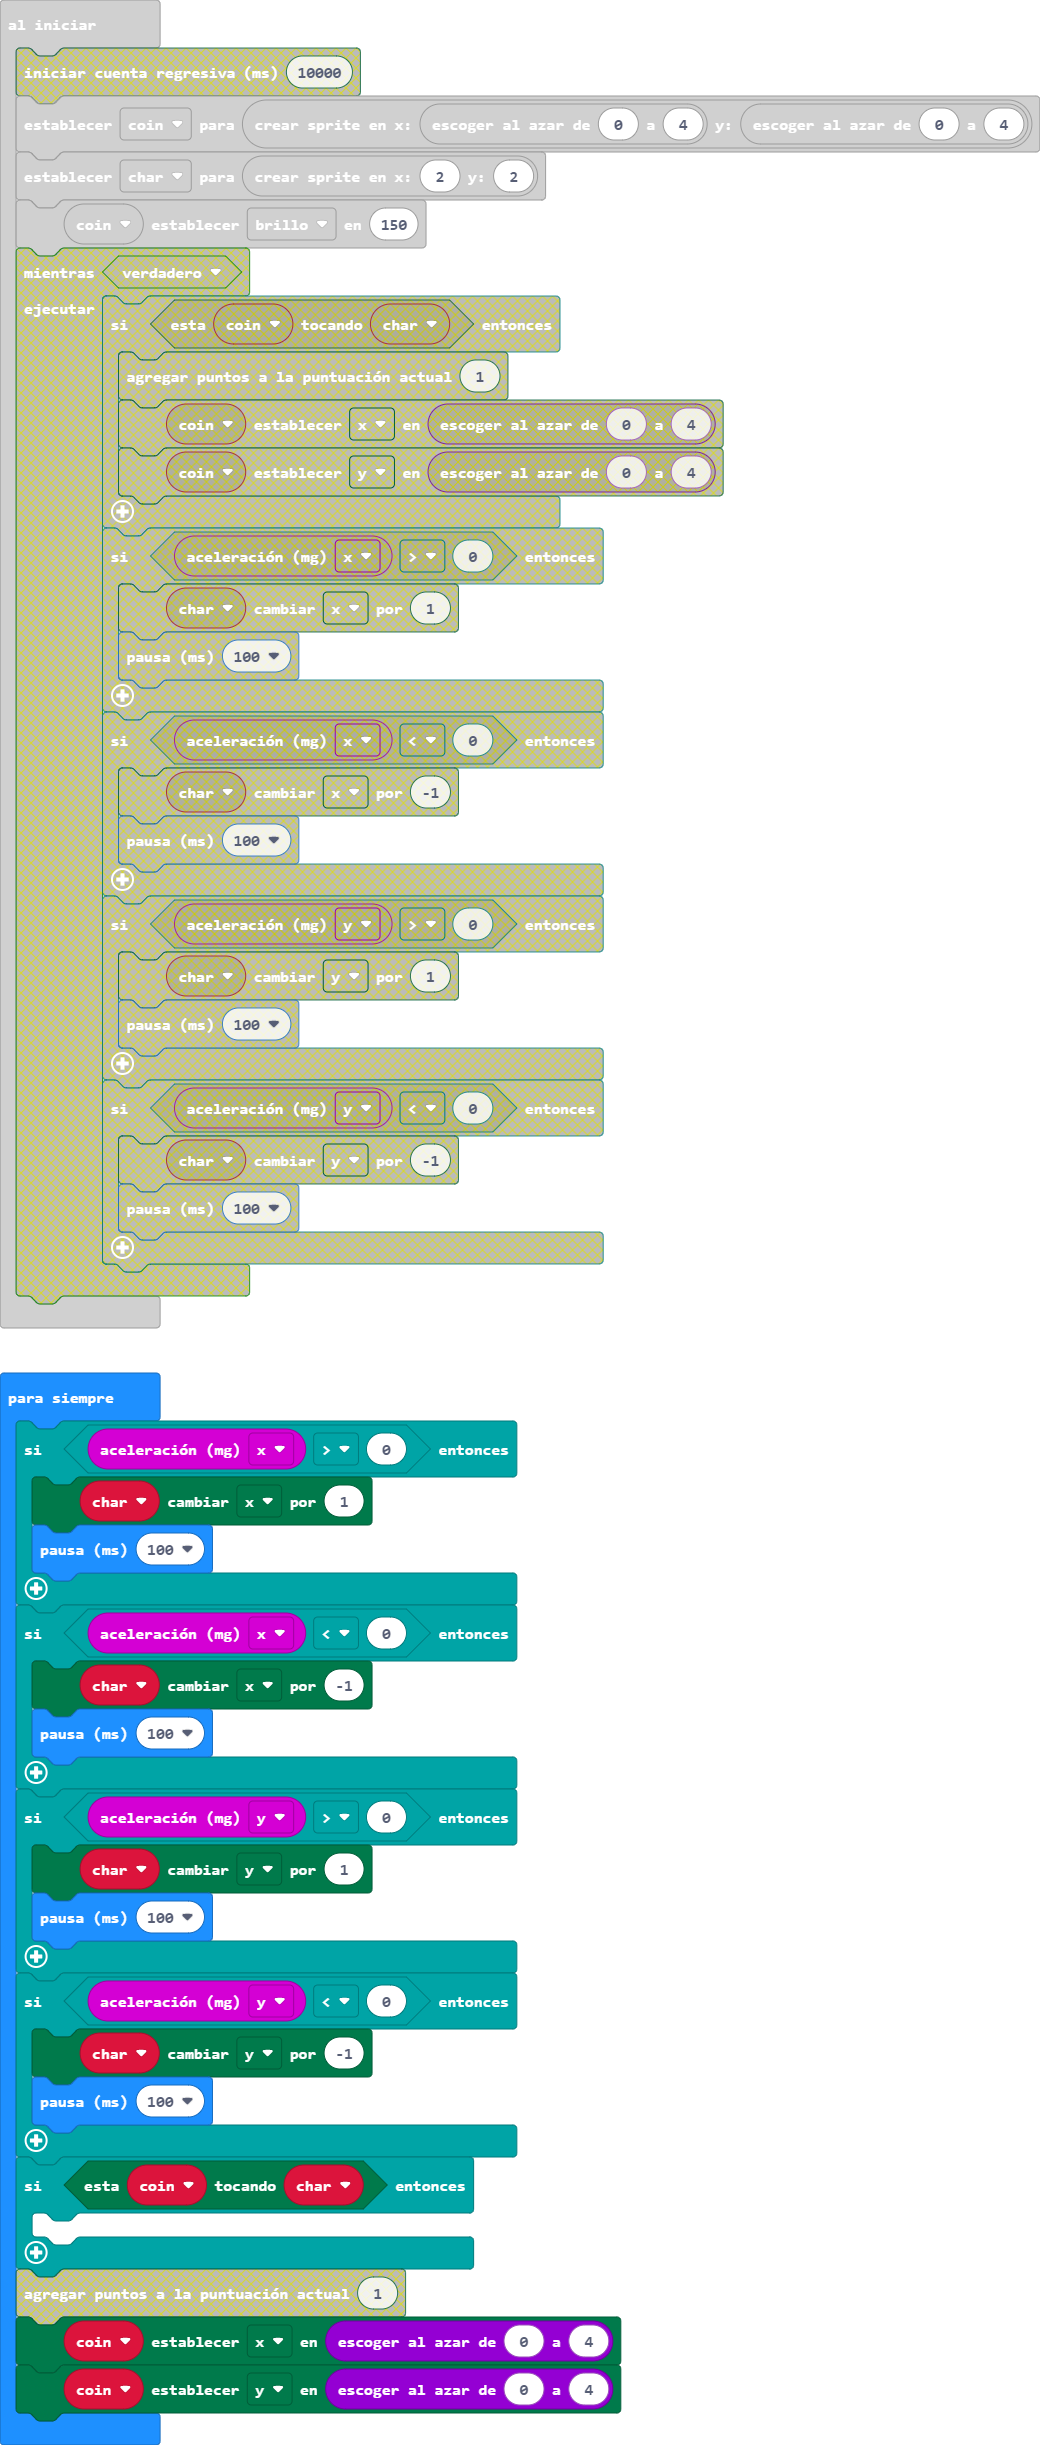
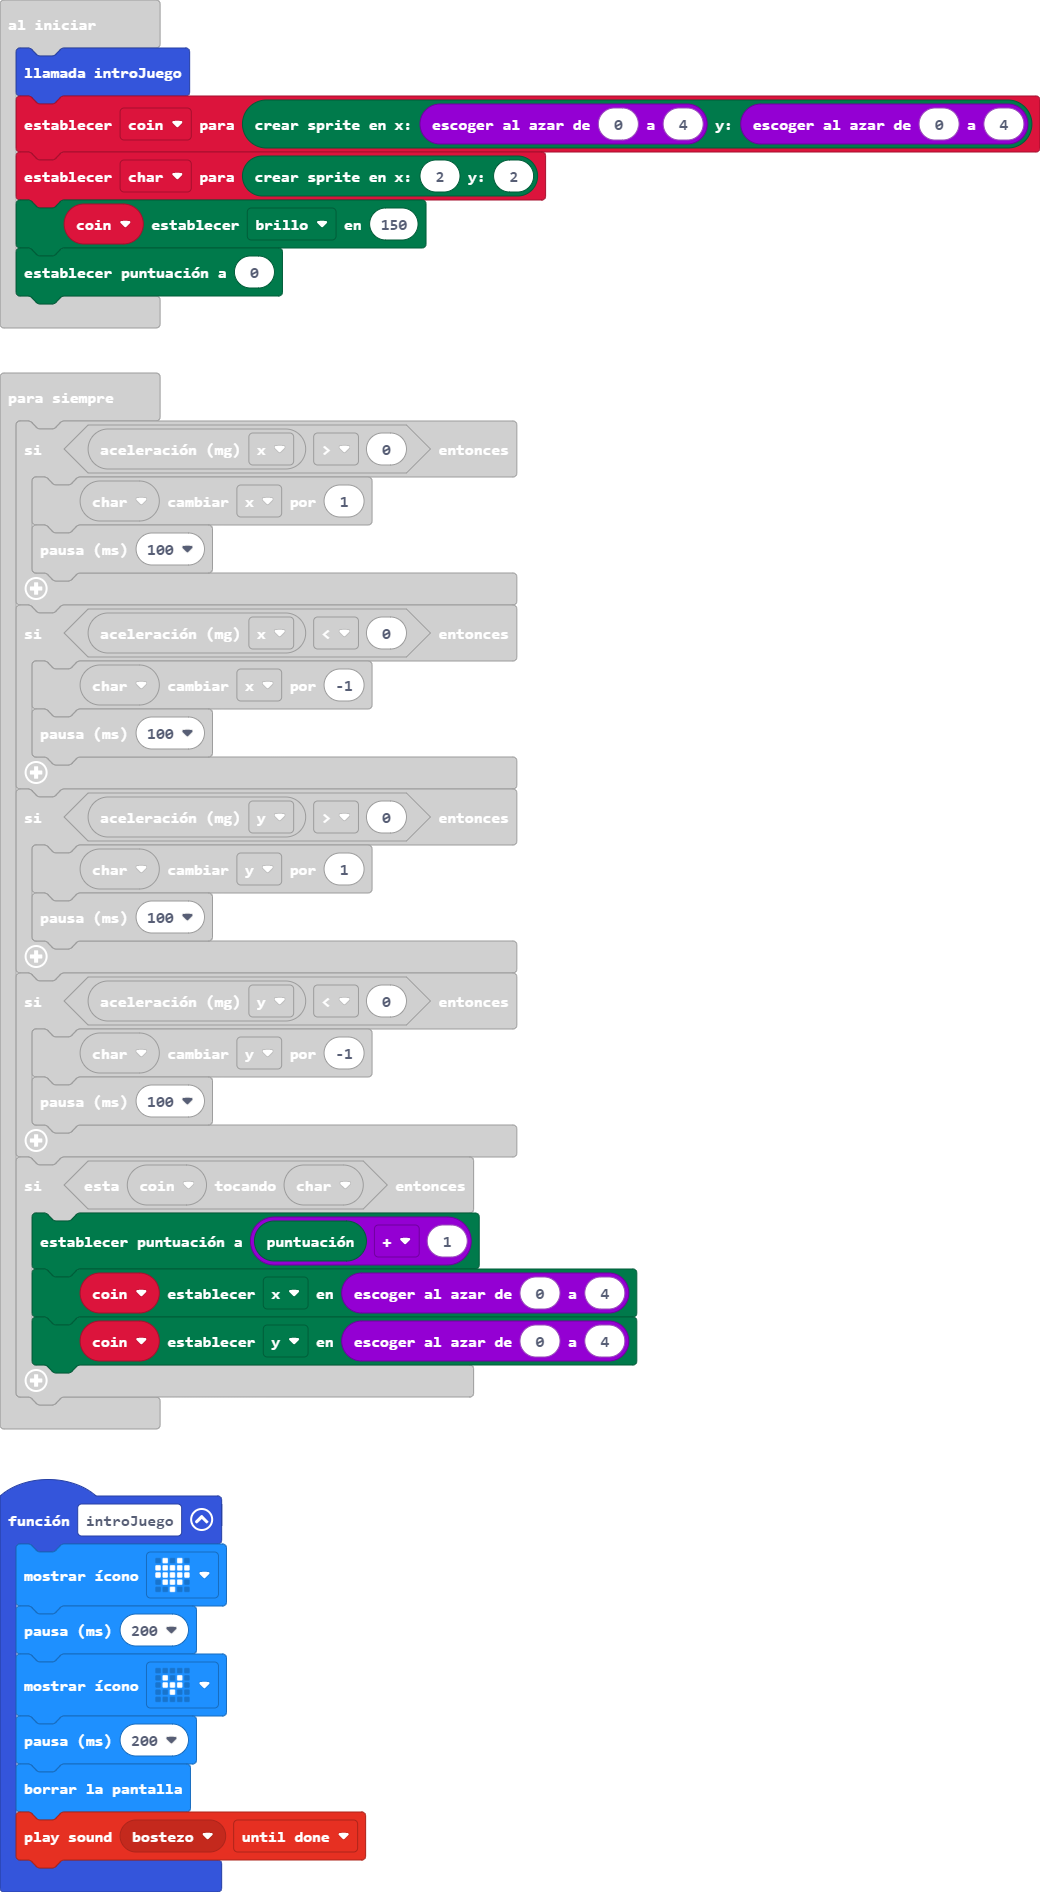
Actualizar main.blocks, main.ts

diff --git a/main.ts b/main.ts
@@ -1,6 +1,16 @@
+function introJuego () {
+    basic.showIcon(IconNames.Heart)
+    basic.pause(200)
+    basic.showIcon(IconNames.SmallHeart)
+    basic.pause(200)
+    basic.clearScreen()
+    music.playSoundEffect(music.builtinSoundEffect(soundExpression.yawn), SoundExpressionPlayMode.UntilDone)
+}
+introJuego()
 let coin = game.createSprite(randint(0, 4), randint(0, 4))
 let char = game.createSprite(2, 2)
 coin.set(LedSpriteProperty.Brightness, 150)
+game.setScore(0)
 basic.forever(function () {
     if (input.acceleration(Dimension.X) > 0) {
         char.change(LedSpriteProperty.X, 1)
@@ -19,6 +29,7 @@ basic.forever(function () {
         basic.pause(100)
     }
     if (coin.isTouching(char)) {
+        game.setScore(game.score() + 1)
         coin.set(LedSpriteProperty.X, randint(0, 4))
         coin.set(LedSpriteProperty.Y, randint(0, 4))
     }
